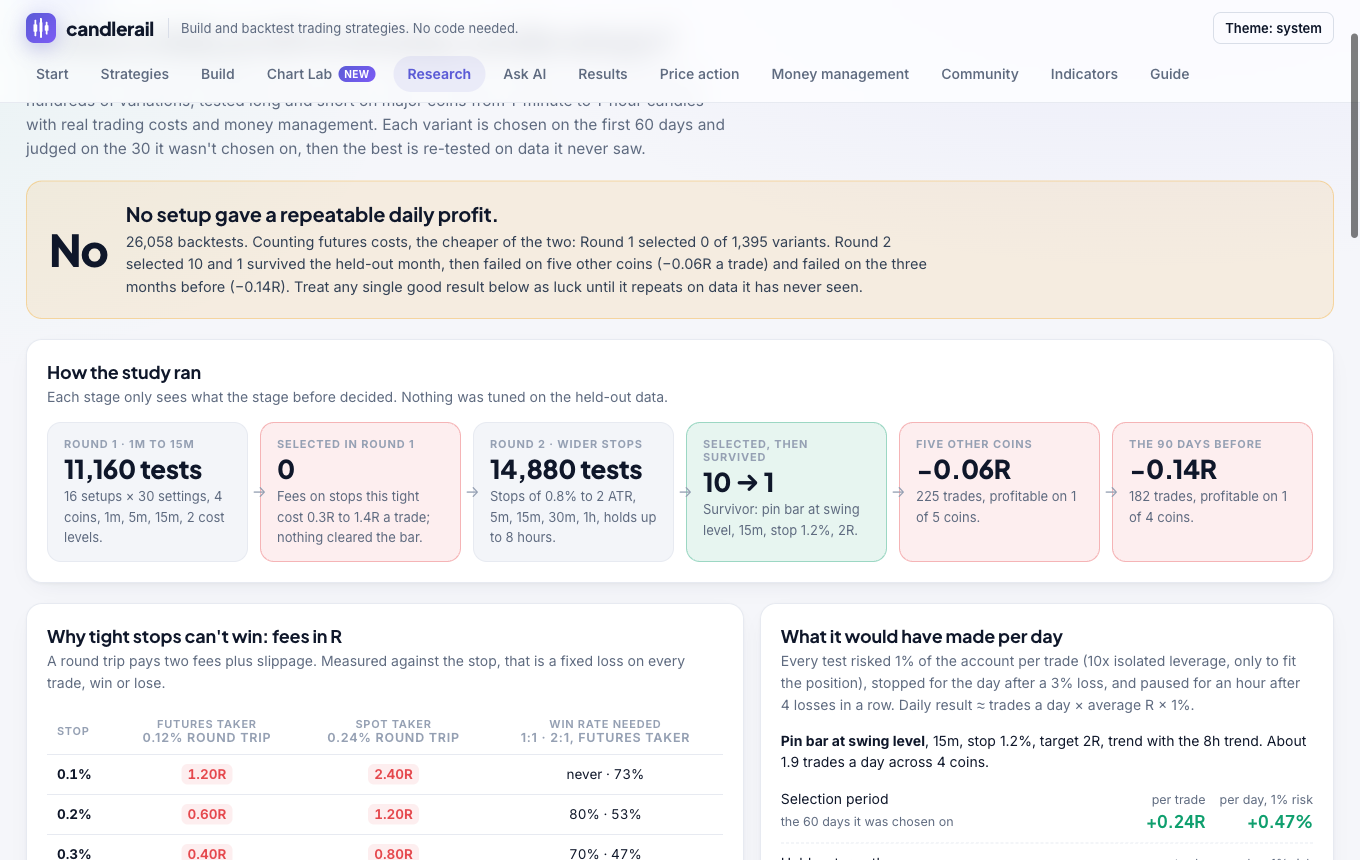
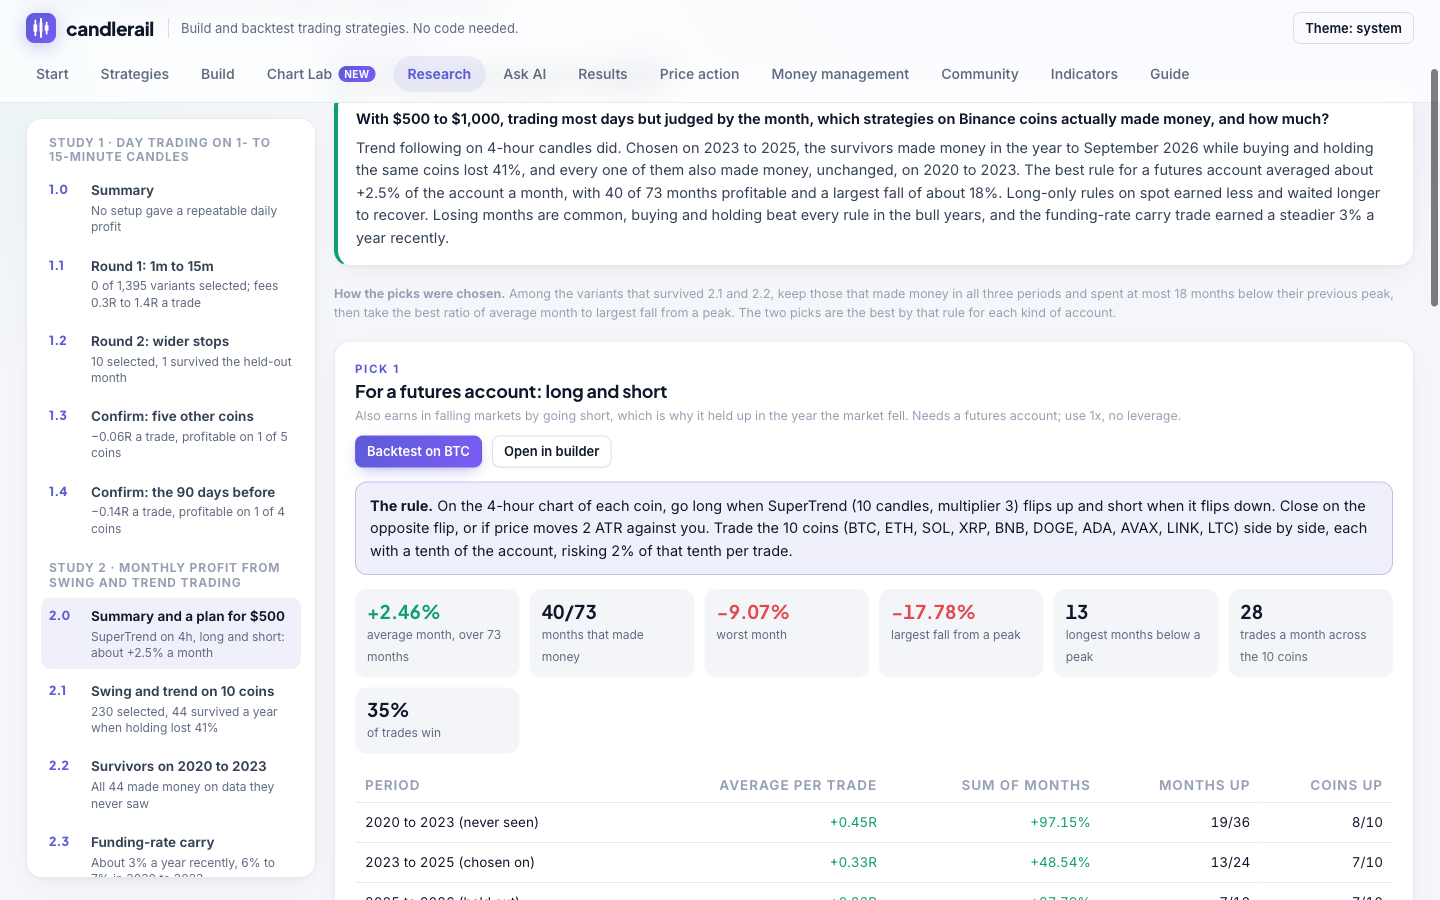
Document Study 2, the carry trade and the numbered pages

diff --git a/docs/research.md b/docs/research.md
@@ -1,18 +1,37 @@
-# Research: intraday reversals on major coins
+# Research
 
-Can well-known day-trading setups, mostly candle reversals at support and
-resistance, make a daily profit on BTC, ETH, SOL and XRP once real trading
-costs are paid? This page records a study that tried to find out, and how to
-run it yourself. The app's **Research** tab shows the same results with an
+Each study asks one question, tests hundreds of strategy variants on real
+Binance data with real trading costs, chooses variants on one period by a
+rule fixed in advance, and then checks them on data they never saw. The
+app's **Research** tab shows every study with the same numbering and an
 explorer for every variant.
 
 ![The Research tab](images/research.png)
+
+| Page | Question or test | Result |
+|---|---|---|
+| **1** | Day trading on 1- to 15-minute candles | **No setup gave a repeatable daily profit** |
+| 1.1 | Round 1: 1m, 5m, 15m | 0 of 1,395 selected; fees 0.3R to 1.4R a trade |
+| 1.2 | Round 2: wider stops | 10 selected, 1 survived the held-out month |
+| 1.3 | Survivor on five other coins | −0.06R a trade |
+| 1.4 | Survivor on the 90 days before | −0.14R a trade |
+| **2** | Monthly profit from swing and trend trading with $500 to $1,000 | **Trend following on 4h held up in three different markets** |
+| 2.1 | 11 strategies, 10 coins, 1h/4h/1d, 3 years | 230 selected, 44 survived a year when holding lost 41% |
+| 2.2 | The survivors on 2020 to 2023 | All 44 made money on data they never saw |
+| 2.3 | Funding-rate carry | About 3% a year recently, 6% to 7% in 2020 to 2023 |
+| 2.4 | How traders use AI, for free | Search and honest testing, not predictions |
+
+# Study 1: intraday reversals on major coins
+
+Can well-known day-trading setups, mostly candle reversals at support and
+resistance, make a daily profit on BTC, ETH, SOL and XRP once real trading
+costs are paid?
 
 **Short answer: no setup held up.** About 26,000 backtests found one variant
 that passed selection and a held-out month, and it lost money on five other
 coins and on the three months before.
 
-## The setups
+## 1. The setups
 
 Fifteen setups, each traded long and short, plus an opening-range breakout
 as a trend-following reference:
@@ -40,7 +59,7 @@ the account (10x isolated leverage, only so the position fits), with a 3%
 daily loss limit and a one-hour pause after four losses in a row. Trades
 closed after 4 hours (round 1) or 8 hours (round 2).
 
-## Method
+## 1. Method
 
 - **Data:** Binance candles for the 90 days to 27 September 2026.
 - **Fills:** signal at a candle's close, market order at the next open, stop
@@ -54,9 +73,9 @@ closed after 4 hours (round 1) or 8 hours (round 2).
 - **Trend:** each trade is tagged by the coin's change over the 24 hours
   before it: above +1.5% is an uptrend, below −1.5% a downtrend, else sideways.
 
-## Results
+## 1. Results
 
-### Round 1: 1, 5 and 15-minute candles
+### 1.1 Round 1: 1, 5 and 15-minute candles
 
 465 variants × 4 coins × 3 timeframes × 2 cost levels: **11,160 backtests**.
 Of the 1,395 variant-timeframe combinations under futures costs, 7 averaged
@@ -74,7 +93,7 @@ A 0.1% stop with a 0.2% target pays 1.2R per round trip on futures, and needs
 to win 73% of the time just to break even. Before costs, the best setups
 averaged only +0.1R to +0.3R.
 
-### Round 2: wider stops
+### 1.2 Round 2: wider stops
 
 Informed only by the cost result: stops of 0.8%, 1.2%, 1.5 ATR, 2 ATR or
 beyond the signal candle, 5 to 60-minute candles, holds of up to 8 hours, and
@@ -90,7 +109,7 @@ the selection period, **10 were selected and 1 survived**:
 Its trades by market trend: +0.59R in uptrends, +0.15R sideways, −0.09R in
 downtrends.
 
-### Confirmation on data it never saw
+### 1.3 and 1.4 Confirmation on data it never saw
 
 | Test | Trades | Average | Coins profitable |
 |---|---|---|---|
@@ -102,7 +121,7 @@ At 1% risk that is roughly +0.47% a day in the period it was chosen on,
 +0.21% in the held-out month, and −0.15% and −0.28% a day on unseen data.
 The survivor was luck.
 
-## What it means
+## 1. What it means
 
 - **Don't scalp at taker fees.** No candle pattern here had an edge close to
   what 1- and 5-minute stops pay in fees.
@@ -114,6 +133,91 @@ The survivor was luck.
 - Worth testing next: entries with limit orders at the maker fee, fewer and
   longer trades where costs are a small share of the risk, and repeating
   this study as new months arrive.
+
+# Study 2: monthly profit from swing and trend trading
+
+With $500 to $1,000, trading most days but judged by the month, which
+strategies on Binance coins actually made money, and how much?
+
+**Short answer: trend following on 4-hour candles did, modestly.** The
+variants that survived a falling year also made money on the three years
+before, which none of them had seen.
+
+## 2.1 Eleven strategies on ten coins
+
+| Kind | Strategies |
+|---|---|
+| Trend | Donchian channel breakout (20/10 and 55/20), EMA crossover (10/30, 20/50, 50/200), SuperTrend flip, price crossing its 50/100/200-candle average, weekly high/low breakout, Keltner channel breakout, MACD cross with the 200 EMA |
+| Mean reversion | Connors' RSI(2) pullback above the 200 average, Bollinger reversion when ADX is below 20, RSI(14) pullback in a trend |
+| Reversal | Study 1's pin bar at a swing level, with the 200 EMA and a 2R target |
+
+Each is tested long-only (spot) and long and short (futures), with a 2 or
+3 ATR stop, with or without a 3 ATR trailing stop, on BTC, ETH, SOL, XRP,
+BNB, DOGE, ADA, AVAX, LINK and LTC at 1 hour, 4 hours and 1 day: 7,440
+backtests. Every trade risks 2% of that coin's tenth of the account, with
+no leverage. Variants are chosen on September 2023 to September 2025 and
+judged on the year to September 2026, when buying and holding the same
+coins lost about 41%.
+
+**230 variants were selected and 44 survived.** Most selected long-only
+rules failed in the falling year; the survivors are mostly long-and-short
+trend followers on 4-hour candles.
+
+## 2.2 The survivors on 2020 to 2023
+
+All 44 survivors, unchanged, on the same coins over the three years before:
+the 2021 bull market and the 2022 crash. **Every one made money**, on 6 to
+10 of the 10 coins. Buying and holding made far more in those years (the
+sum of its monthly returns was about +438%); the rules earned their place by
+losing little when the market fell.
+
+## 2.0 The picks
+
+Among variants positive in all three periods and at most 18 months below a
+previous peak, the best ratio of average month to largest fall:
+
+| | Futures, long and short | Spot, long only |
+|---|---|---|
+| Rule, on 4-hour candles | SuperTrend (10, 3) flips: long when it turns up, short when it turns down; 2 ATR stop | Close above the upper Keltner channel (20 EMA + 2 × ATR 10); exit below the middle line; 3 ATR stop |
+| Average month, 73 months | +2.5% | +1.2% |
+| Months that made money | 40 of 73 | 35 of 73 |
+| Worst month | −9.1% | −4.0% |
+| Largest fall from a peak | −17.8% | −14.4% |
+| Longest below a peak | 13 months | 10 months |
+| Trades a month, 10 coins | about 28 | about 20 |
+
+On $500 the futures pick's average month is about $12, and its worst month
+about −$45. Returns scale roughly with risk. Coins that collapsed (LUNA,
+FTT) aren't in the test, which flatters every strategy, buy and hold
+included.
+
+## 2.3 Funding-rate carry
+
+Long spot and short the same amount of the perpetual future, half the
+account in each leg, collecting funding every eight hours, with fees and
+slippage on both legs:
+
+| Period | Held all the time | Only while 7-day funding is positive | Months that made money |
+|---|---|---|---|
+| Sep 2023 to Sep 2026 | +3.1% a year | +2.0% a year | 32 of 37 |
+| Sep 2020 to Sep 2023 | +6.2% a year | +6.7% a year | 28 of 37 |
+
+Steady but small: about $1.30 a month on $500 recently. Funding history
+comes from Binance's public futures API:
+
+```bash
+candlerail carry --days 1095 -o carry.json
+candlerail carry --days 1095 --offset-days 1095      # the three years before
+```
+
+## 2.4 AI without a paid API
+
+Most "AI trading bots" are ordinary rules with an AI label. What quantitative
+traders use machine learning for is searching many rules and testing them
+honestly, which is what `candlerail study` does locally. Free chat
+assistants or local models (Ollama, LM Studio) can write strategy files
+from the Ask AI tab's prompt; test anything they write here before trading
+it.
 
 ## Running a study
 
@@ -170,7 +274,9 @@ A family's `strategy` is an ordinary strategy file with placeholders:
 | `"{{hours:8}}"` | the number of candles in 8 hours at the timeframe being tested |
 | `"sw.support + {{k}} * atr"` | a placeholder inside text is replaced by its value |
 
-Only settings a template uses multiply its variants. A family can add its
-own `grid`. `offset_days` ends the period that many days ago, for testing on
+Grid values can themselves contain placeholders. Only settings a template
+uses multiply its variants. A family can add its own `grid`, and
+`intervals` to run on only some of the study's timeframes. `offset_days` ends the period that many days ago, for testing on
 older data; `split: 0` counts every trade as unseen, for confirmation runs.
-The files for the studies above are in [`research/`](../research).
+The files for the studies above are in [`research/`](../research), and
+[`research/index.json`](../research/index.json) numbers them for the app.

diff --git a/docs/cli.md b/docs/cli.md
@@ -100,6 +100,20 @@ It prints the selected variants, best in sample first, with their held-out
 results. `-o` writes every variant's full per-market result; `--digest`
 writes the compact form the app's Research tab reads.
 
+## carry
+
+Tests the funding-rate carry trade: long spot and short the same amount of
+the perpetual future on each coin, collecting funding every eight hours,
+with fees and slippage on both legs. Funding history comes from Binance's
+public futures API and is cached.
+
+```text
+candlerail carry [--symbols BTCUSDT,ETHUSDT,...] [--days 1095] [--offset-days N] [-o FILE]
+```
+
+It prints each coin's yearly result held all the time and held only while
+the last seven days' funding was positive, and the equal-weight portfolio.
+
 ## Exit codes
 
 `0` on success, `1` on any error (invalid strategy, bad arguments, network

diff --git a/docs/api.md b/docs/api.md
@@ -119,6 +119,8 @@ backtest.
 
 | Route | |
 |---|---|
+| `GET /api/research` | How the studies are grouped and numbered (1.0, 1.1, ... 2.0, ...), what each found, and the plan's picks |
+| `GET /api/carry/{id}` | A recorded funding-rate carry run: per-coin and portfolio results month by month |
 | `GET /api/studies` | The recorded studies: id, name, description, counts of variants, selected and survived |
 | `GET /api/studies/{id}` | A study's digest: its definition, data window, and one row per variant |
 | `POST /api/studies/{id}/strategy` | `{ family, variant, interval, cost }` → the exact strategy file that variant tested |
